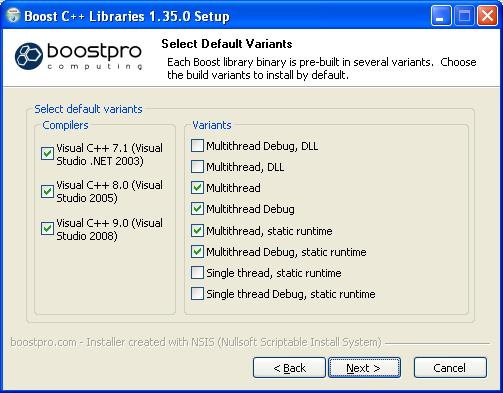
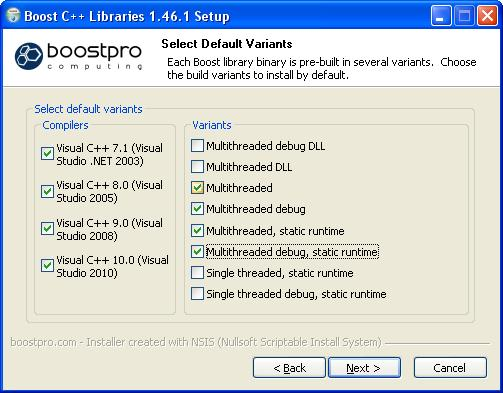
Merged revisions 1-HEAD of https://quantlib.svn.sourceforge.net/svnroot/quantlib/branches/R01010x-branch into C:\Projects\QuantLib\trunk, respecting ancestry
git-svn-id: https://quantlib.svn.sourceforge.net/svnroot/quantlib/trunk@17759 8618b1d8-e22c-0410-b026-96a5dba3e089

diff --git a/ObjectHandler/ohxl/functions/manual.cpp b/ObjectHandler/ohxl/functions/manual.cpp
@@ -1,7 +1,7 @@
 /* -*- mode: c++; tab-width: 4; indent-tabs-mode: nil; c-basic-offset: 4 -*- */
 
 /* 
- Copyright (C) 2006, 2007 Eric Ehlers
+ Copyright (C) 2006, 2007, 2011 Eric Ehlers
 
  This file is part of QuantLib, a free-software/open-source library
  for financial quantitative analysts and developers - http://quantlib.org/
@@ -164,6 +164,154 @@ XLL_DEC OPER *ohPack(OPER *xInputRange) {
         }
 
         return &xRet;
+    } catch (const std::exception &e) {
+
+        // free any memory that may have been allocated
+
+        if (xRet.xltype & xltypeMulti && xRet.val.array.lparray) {
+            for (int i=0; i<xRet.val.array.columns * xRet.val.array.rows; ++i) {
+                if (xRet.val.array.lparray[i].xltype & xltypeStr && xRet.val.array.lparray[i].val.str)
+                    delete [] xRet.val.array.lparray[i].val.str;
+            }
+            delete [] xRet.val.array.lparray;
+        }
+
+        // log the exception and return a null pointer (#NUM!) to Excel
+
+        ObjectHandler::RepositoryXL::instance().logError(e.what(), functionCall);
+        return 0;
+    }
+}
+
+bool rowIsValid(const OPER &xMulti, int i) {
+    for (int j=0; j<xMulti.val.array.columns; ++j) {
+        int index = i * xMulti.val.array.columns + j;
+        if (xMulti.val.array.lparray[index].xltype & (xltypeErr | xltypeNil))
+            return false;
+    }
+    return true;
+}
+
+int countValidRows2(const OPER &xMulti) {
+    int ret = 0;
+    for (int i=0; i<xMulti.val.array.rows; ++i)
+        ret += rowIsValid(xMulti, i);
+    return ret;
+}
+
+XLL_DEC OPER *ohRemoveInvalidRows(OPER *xInputRange) {
+
+    // initialize Function Call object
+    boost::shared_ptr<ObjectHandler::FunctionCall> functionCall;
+
+    ObjectHandler::Xloper xMulti;
+    static OPER xRet;
+    xRet.val.array.lparray = 0;
+
+    try {
+        functionCall = boost::shared_ptr<ObjectHandler::FunctionCall>
+            (new ObjectHandler::FunctionCall("ohRemoveInvalidRows"));
+
+        Excel(xlCoerce, &xMulti, 2, xInputRange, TempInt(xltypeMulti));
+
+        int numValidRows = countValidRows2(xMulti());
+        if (!numValidRows) return 0;
+        int numCols = xMulti->val.array.columns;
+
+        xRet.val.array.rows = numValidRows;
+        xRet.val.array.columns = numCols;
+        xRet.val.array.lparray = new OPER[numValidRows * numCols]; 
+        xRet.xltype = xltypeMulti | xlbitDLLFree;
+
+        int i2 = 0;
+        for (int i=0; i<xMulti->val.array.rows; ++i) {
+            if (rowIsValid(xMulti(), i)) {
+                for (int j=0; j<numCols; ++j) {
+                    int indexSource = i * numCols + j;
+                    int indexTarget = i2 * numCols + j;
+                    operToOper(&xRet.val.array.lparray[indexTarget], 
+                        &xMulti->val.array.lparray[indexSource]);
+                }
+                i2++;
+            }
+        }
+
+        return &xRet;
+
+    } catch (const std::exception &e) {
+
+        // free any memory that may have been allocated
+
+        if (xRet.xltype & xltypeMulti && xRet.val.array.lparray) {
+            for (int i=0; i<xRet.val.array.columns * xRet.val.array.rows; ++i) {
+                if (xRet.val.array.lparray[i].xltype & xltypeStr && xRet.val.array.lparray[i].val.str)
+                    delete [] xRet.val.array.lparray[i].val.str;
+            }
+            delete [] xRet.val.array.lparray;
+        }
+
+        // log the exception and return a null pointer (#NUM!) to Excel
+
+        ObjectHandler::RepositoryXL::instance().logError(e.what(), functionCall);
+        return 0;
+    }
+}
+
+bool columnIsValid(const OPER &xMulti, int j) {
+    for (int i=0; i<xMulti.val.array.rows; ++i) {
+        int index = i * xMulti.val.array.columns + j;
+        if (xMulti.val.array.lparray[index].xltype & (xltypeErr | xltypeNil))
+            return false;
+    }
+    return true;
+}
+
+int countValidColumns(const OPER &xMulti) {
+    int ret = 0;
+    for (int j=0; j<xMulti.val.array.columns; ++j)
+        ret += columnIsValid(xMulti, j);
+    return ret;
+}
+
+XLL_DEC OPER *ohRemoveInvalidColumns(OPER *xInputRange) {
+
+    // initialize Function Call object
+    boost::shared_ptr<ObjectHandler::FunctionCall> functionCall;
+
+    ObjectHandler::Xloper xMulti;
+    static OPER xRet;
+    xRet.val.array.lparray = 0;
+
+    try {
+        functionCall = boost::shared_ptr<ObjectHandler::FunctionCall>
+            (new ObjectHandler::FunctionCall("ohRemoveInvalidColumns"));
+
+        Excel(xlCoerce, &xMulti, 2, xInputRange, TempInt(xltypeMulti));
+
+        int numValidCols = countValidColumns(xMulti());
+        if (!numValidCols) return 0;
+        int numRows = xMulti->val.array.rows;
+
+        xRet.val.array.rows = numRows;
+        xRet.val.array.columns = numValidCols;
+        xRet.val.array.lparray = new OPER[numRows * numValidCols]; 
+        xRet.xltype = xltypeMulti | xlbitDLLFree;
+
+        for (int i=0; i<xMulti->val.array.rows; ++i) {
+			int j2 = 0;
+            for (int j=0; j<xMulti->val.array.columns; ++j) {
+				if (columnIsValid(xMulti(), j)) {
+					int indexSource = i * xMulti->val.array.columns + j;
+					int indexTarget = i * numValidCols + j2;
+					operToOper(&xRet.val.array.lparray[indexTarget], 
+						&xMulti->val.array.lparray[indexSource]);
+					j2++;
+				}
+            }
+        }
+
+        return &xRet;
+
     } catch (const std::exception &e) {
 
         // free any memory that may have been allocated

diff --git a/ObjectHandler/oh/serializationfactory.cpp b/ObjectHandler/oh/serializationfactory.cpp
@@ -29,8 +29,10 @@
 #include <oh/repository.hpp>
 #include <oh/conversions/getobjectvector.hpp>
 
+// fix for boost 1.46.1+
+#define BOOST_FILESYSTEM_VERSION 2
+
 #include <boost/regex.hpp>
-#include <boost/filesystem.hpp>
 #include <boost/filesystem.hpp>
 #include <boost/serialization/variant.hpp>
 #include <boost/serialization/vector.hpp>
